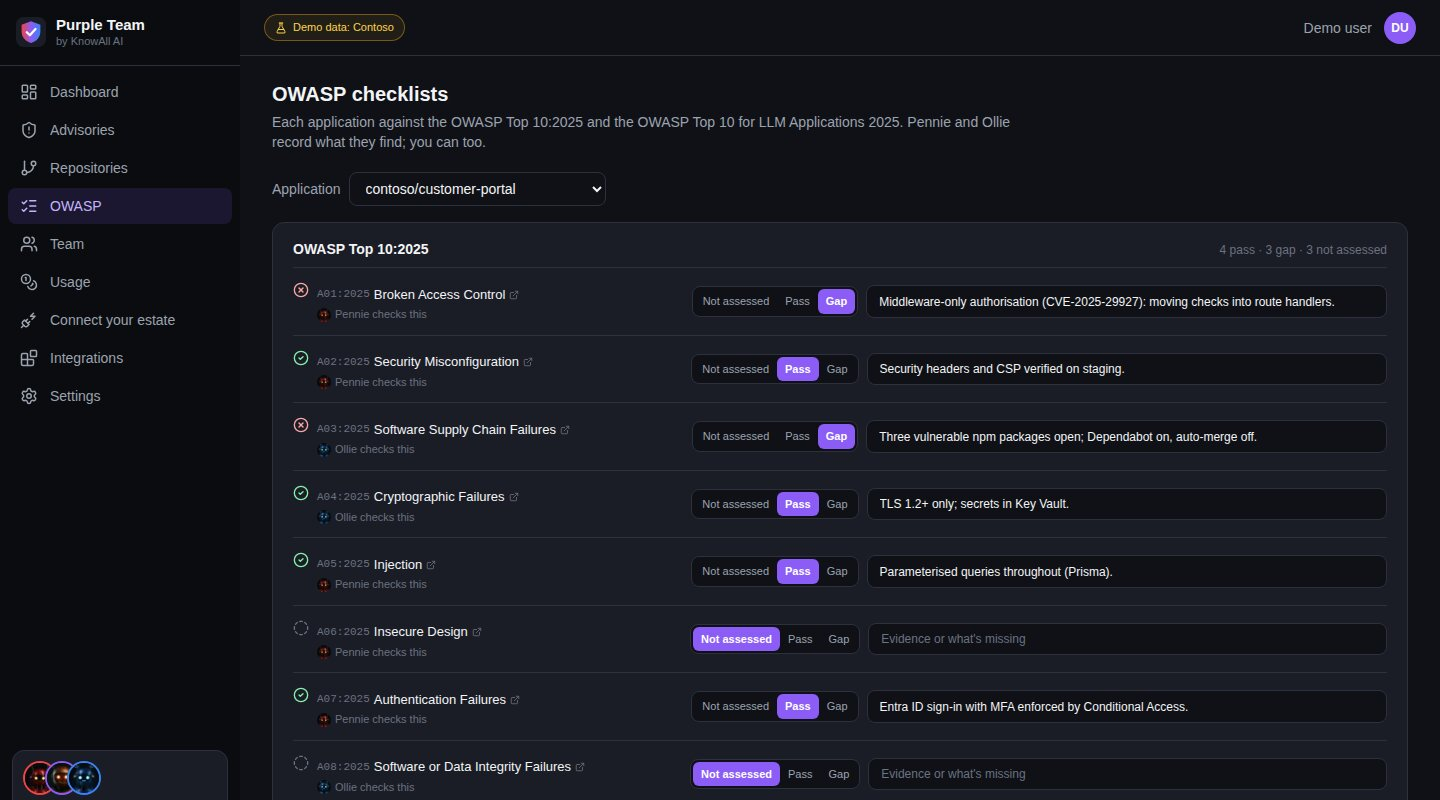
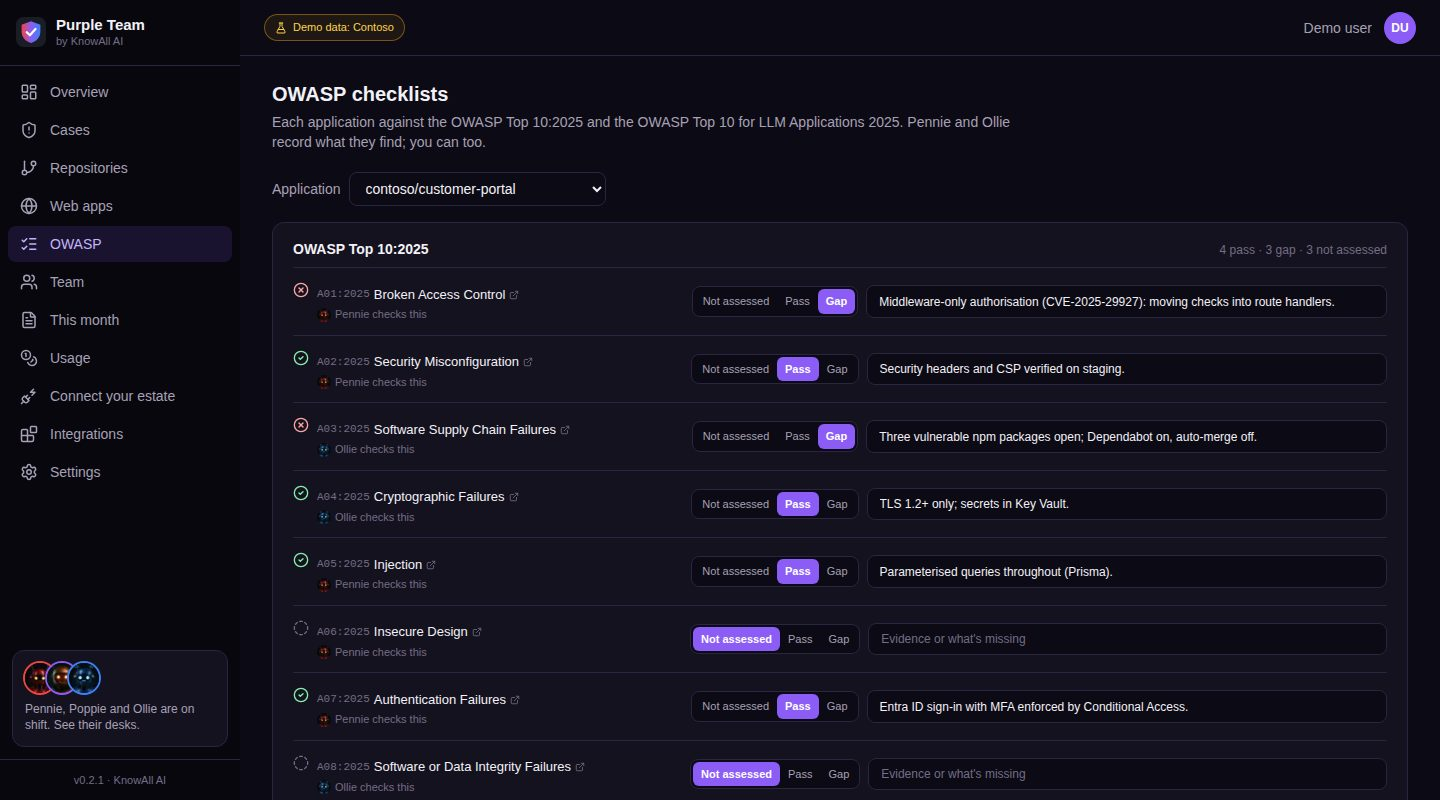
feat(presentations): current Purple Team Portal screenshots
Slide 9's carousel showed the old portal (Dashboard, Advisories). It now
shows eight current screens from DEMO_MODE (Contoso): Overview, Cases, Case
detail, Repositories, Repository, Web app, OWASP checklists and Usage and
hours, with matching captions, alt text and dots. The three retired images
are removed.

Fixes #245

diff --git a/presentations-src/purple-team.html b/presentations-src/purple-team.html
@@ -790,27 +790,35 @@
               <div class="portal-shot portal-carousel carousel" role="group" aria-roledescription="carousel" aria-label="Purple Team Portal screens">
                 <div class="carousel-track">
                   <figure class="carousel-slide is-active" aria-hidden="false">
-                    <img src="images/portal-dashboard.jpg" alt="Purple Team Portal, Dashboard page, for the fictional company Contoso: Security score, its trend and the month's key figures" />
-                    <figcaption><strong>Dashboard</strong> &middot; Security score, its trend and the month&rsquo;s key figures</figcaption>
+                    <img src="images/portal-overview.jpg" alt="Purple Team Portal, Overview, for the fictional company Contoso: The team right now, what's waiting on you, Poppie's briefing and your security score" />
+                    <figcaption><strong>Overview</strong> &middot; The team right now, what&rsquo;s waiting on you, Poppie&rsquo;s briefing and your security score</figcaption>
                   </figure>
                   <figure class="carousel-slide" aria-hidden="true">
-                    <img src="images/portal-advisories.jpg" alt="Purple Team Portal, Advisories page, for the fictional company Contoso: Every advisory that affects you, scored and matched to your repositories" />
-                    <figcaption><strong>Advisories</strong> &middot; Every advisory that affects you, scored and matched to your repositories</figcaption>
+                    <img src="images/portal-cases.jpg" alt="Purple Team Portal, Cases, for the fictional company Contoso: Every vulnerability that affects you, scored, with Poppie's recommendation" />
+                    <figcaption><strong>Cases</strong> &middot; Every vulnerability that affects you, scored, with Poppie&rsquo;s recommendation</figcaption>
                   </figure>
                   <figure class="carousel-slide" aria-hidden="true">
-                    <img src="images/portal-advisory.jpg" alt="Purple Team Portal, Advisory detail page, for the fictional company Contoso: Why it matters to you, the evidence, and what the team did about it" />
-                    <figcaption><strong>Advisory detail</strong> &middot; Why it matters to you, the evidence, and what the team did about it</figcaption>
+                    <img src="images/portal-case.jpg" alt="Purple Team Portal, Case detail, for the fictional company Contoso: Pennie's verdict and evidence, Ollie's fix, and where it stands" />
+                    <figcaption><strong>Case detail</strong> &middot; Pennie&rsquo;s verdict and evidence, Ollie&rsquo;s fix, and where it stands</figcaption>
                   </figure>
                   <figure class="carousel-slide" aria-hidden="true">
-                    <img src="images/portal-repos.jpg" alt="Purple Team Portal, Repositories page, for the fictional company Contoso: Each repository's open findings and the scanners watching it" />
-                    <figcaption><strong>Repositories</strong> &middot; Each repository&rsquo;s open findings and the scanners watching it</figcaption>
+                    <img src="images/portal-repos.jpg" alt="Purple Team Portal, Repositories, for the fictional company Contoso: Each repository by organisation and project, its open findings and its scanning" />
+                    <figcaption><strong>Repositories</strong> &middot; Each repository by organisation and project, its open findings and its scanning</figcaption>
                   </figure>
                   <figure class="carousel-slide" aria-hidden="true">
-                    <img src="images/portal-owasp.jpg" alt="Purple Team Portal, OWASP checklists page, for the fictional company Contoso: The OWASP Top 10 and LLM Top 10, item by item, with Pennie's results" />
+                    <img src="images/portal-repo.jpg" alt="Purple Team Portal, Repository page, for the fictional company Contoso: The team's recommendations for one repository, with a button to set them going" />
+                    <figcaption><strong>Repository</strong> &middot; The team&rsquo;s recommendations for one repository, with a button to set them going</figcaption>
+                  </figure>
+                  <figure class="carousel-slide" aria-hidden="true">
+                    <img src="images/portal-app.jpg" alt="Purple Team Portal, Web app page, for the fictional company Contoso: Each Azure web app: its repository, Front Door and WAF, and Defender for Cloud" />
+                    <figcaption><strong>Web app</strong> &middot; Each Azure web app: its repository, Front Door and WAF, and Defender for Cloud</figcaption>
+                  </figure>
+                  <figure class="carousel-slide" aria-hidden="true">
+                    <img src="images/portal-owasp.jpg" alt="Purple Team Portal, OWASP checklists, for the fictional company Contoso: The OWASP Top 10 and LLM Top 10, item by item, with Pennie's results" />
                     <figcaption><strong>OWASP checklists</strong> &middot; The OWASP Top 10 and LLM Top 10, item by item, with Pennie&rsquo;s results</figcaption>
                   </figure>
                   <figure class="carousel-slide" aria-hidden="true">
-                    <img src="images/portal-usage.jpg" alt="Purple Team Portal, Usage and hours page, for the fictional company Contoso: Time spent per case, by agent and by job, against your plan" />
+                    <img src="images/portal-usage.jpg" alt="Purple Team Portal, Usage and hours, for the fictional company Contoso: Time spent per case, by agent and by job, against your plan" />
                     <figcaption><strong>Usage and hours</strong> &middot; Time spent per case, by agent and by job, against your plan</figcaption>
                   </figure>
                 </div>
@@ -821,7 +829,7 @@
                   <svg class="carousel-icon-pause" viewBox="0 0 16 16" aria-hidden="true"><rect x="3" y="2" width="3.5" height="12" rx="1" /><rect x="9.5" y="2" width="3.5" height="12" rx="1" /></svg>
                   <svg class="carousel-icon-play" viewBox="0 0 16 16" aria-hidden="true"><path d="M4 2.2v11.6c0 .6.7 1 1.2.6l8.4-5.8a.75.75 0 0 0 0-1.2L5.2 1.6c-.5-.4-1.2 0-1.2.6z" /></svg>
                 </button>
-                <div class="carousel-dots"><button type="button" class="carousel-dot is-active" aria-label="Show Dashboard"></button><button type="button" class="carousel-dot" aria-label="Show Advisories"></button><button type="button" class="carousel-dot" aria-label="Show Advisory detail"></button><button type="button" class="carousel-dot" aria-label="Show Repositories"></button><button type="button" class="carousel-dot" aria-label="Show OWASP checklists"></button><button type="button" class="carousel-dot" aria-label="Show Usage and hours"></button></div>
+                <div class="carousel-dots"><button type="button" class="carousel-dot is-active" aria-label="Show Overview"></button><button type="button" class="carousel-dot" aria-label="Show Cases"></button><button type="button" class="carousel-dot" aria-label="Show Case detail"></button><button type="button" class="carousel-dot" aria-label="Show Repositories"></button><button type="button" class="carousel-dot" aria-label="Show Repository"></button><button type="button" class="carousel-dot" aria-label="Show Web app"></button><button type="button" class="carousel-dot" aria-label="Show OWASP checklists"></button><button type="button" class="carousel-dot" aria-label="Show Usage and hours"></button></div>
               </div>
             </div>
           </div>

diff --git a/public/presentations/purple-team.html b/public/presentations/purple-team.html
@@ -811,27 +811,35 @@
               <div class="portal-shot portal-carousel carousel" role="group" aria-roledescription="carousel" aria-label="Purple Team Portal screens">
                 <div class="carousel-track">
                   <figure class="carousel-slide is-active" aria-hidden="false">
-                    <img src="images/portal-dashboard.jpg" alt="Purple Team Portal, Dashboard page, for the fictional company Contoso: Security score, its trend and the month's key figures" />
-                    <figcaption><strong>Dashboard</strong> &middot; Security score, its trend and the month&rsquo;s key figures</figcaption>
+                    <img src="images/portal-overview.jpg" alt="Purple Team Portal, Overview, for the fictional company Contoso: The team right now, what's waiting on you, Poppie's briefing and your security score" />
+                    <figcaption><strong>Overview</strong> &middot; The team right now, what&rsquo;s waiting on you, Poppie&rsquo;s briefing and your security score</figcaption>
                   </figure>
                   <figure class="carousel-slide" aria-hidden="true">
-                    <img src="images/portal-advisories.jpg" alt="Purple Team Portal, Advisories page, for the fictional company Contoso: Every advisory that affects you, scored and matched to your repositories" />
-                    <figcaption><strong>Advisories</strong> &middot; Every advisory that affects you, scored and matched to your repositories</figcaption>
+                    <img src="images/portal-cases.jpg" alt="Purple Team Portal, Cases, for the fictional company Contoso: Every vulnerability that affects you, scored, with Poppie's recommendation" />
+                    <figcaption><strong>Cases</strong> &middot; Every vulnerability that affects you, scored, with Poppie&rsquo;s recommendation</figcaption>
                   </figure>
                   <figure class="carousel-slide" aria-hidden="true">
-                    <img src="images/portal-advisory.jpg" alt="Purple Team Portal, Advisory detail page, for the fictional company Contoso: Why it matters to you, the evidence, and what the team did about it" />
-                    <figcaption><strong>Advisory detail</strong> &middot; Why it matters to you, the evidence, and what the team did about it</figcaption>
+                    <img src="images/portal-case.jpg" alt="Purple Team Portal, Case detail, for the fictional company Contoso: Pennie's verdict and evidence, Ollie's fix, and where it stands" />
+                    <figcaption><strong>Case detail</strong> &middot; Pennie&rsquo;s verdict and evidence, Ollie&rsquo;s fix, and where it stands</figcaption>
                   </figure>
                   <figure class="carousel-slide" aria-hidden="true">
-                    <img src="images/portal-repos.jpg" alt="Purple Team Portal, Repositories page, for the fictional company Contoso: Each repository's open findings and the scanners watching it" />
-                    <figcaption><strong>Repositories</strong> &middot; Each repository&rsquo;s open findings and the scanners watching it</figcaption>
+                    <img src="images/portal-repos.jpg" alt="Purple Team Portal, Repositories, for the fictional company Contoso: Each repository by organisation and project, its open findings and its scanning" />
+                    <figcaption><strong>Repositories</strong> &middot; Each repository by organisation and project, its open findings and its scanning</figcaption>
                   </figure>
                   <figure class="carousel-slide" aria-hidden="true">
-                    <img src="images/portal-owasp.jpg" alt="Purple Team Portal, OWASP checklists page, for the fictional company Contoso: The OWASP Top 10 and LLM Top 10, item by item, with Pennie's results" />
+                    <img src="images/portal-repo.jpg" alt="Purple Team Portal, Repository page, for the fictional company Contoso: The team's recommendations for one repository, with a button to set them going" />
+                    <figcaption><strong>Repository</strong> &middot; The team&rsquo;s recommendations for one repository, with a button to set them going</figcaption>
+                  </figure>
+                  <figure class="carousel-slide" aria-hidden="true">
+                    <img src="images/portal-app.jpg" alt="Purple Team Portal, Web app page, for the fictional company Contoso: Each Azure web app: its repository, Front Door and WAF, and Defender for Cloud" />
+                    <figcaption><strong>Web app</strong> &middot; Each Azure web app: its repository, Front Door and WAF, and Defender for Cloud</figcaption>
+                  </figure>
+                  <figure class="carousel-slide" aria-hidden="true">
+                    <img src="images/portal-owasp.jpg" alt="Purple Team Portal, OWASP checklists, for the fictional company Contoso: The OWASP Top 10 and LLM Top 10, item by item, with Pennie's results" />
                     <figcaption><strong>OWASP checklists</strong> &middot; The OWASP Top 10 and LLM Top 10, item by item, with Pennie&rsquo;s results</figcaption>
                   </figure>
                   <figure class="carousel-slide" aria-hidden="true">
-                    <img src="images/portal-usage.jpg" alt="Purple Team Portal, Usage and hours page, for the fictional company Contoso: Time spent per case, by agent and by job, against your plan" />
+                    <img src="images/portal-usage.jpg" alt="Purple Team Portal, Usage and hours, for the fictional company Contoso: Time spent per case, by agent and by job, against your plan" />
                     <figcaption><strong>Usage and hours</strong> &middot; Time spent per case, by agent and by job, against your plan</figcaption>
                   </figure>
                 </div>
@@ -842,7 +850,7 @@
                   <svg class="carousel-icon-pause" viewBox="0 0 16 16" aria-hidden="true"><rect x="3" y="2" width="3.5" height="12" rx="1" /><rect x="9.5" y="2" width="3.5" height="12" rx="1" /></svg>
                   <svg class="carousel-icon-play" viewBox="0 0 16 16" aria-hidden="true"><path d="M4 2.2v11.6c0 .6.7 1 1.2.6l8.4-5.8a.75.75 0 0 0 0-1.2L5.2 1.6c-.5-.4-1.2 0-1.2.6z" /></svg>
                 </button>
-                <div class="carousel-dots"><button type="button" class="carousel-dot is-active" aria-label="Show Dashboard"></button><button type="button" class="carousel-dot" aria-label="Show Advisories"></button><button type="button" class="carousel-dot" aria-label="Show Advisory detail"></button><button type="button" class="carousel-dot" aria-label="Show Repositories"></button><button type="button" class="carousel-dot" aria-label="Show OWASP checklists"></button><button type="button" class="carousel-dot" aria-label="Show Usage and hours"></button></div>
+                <div class="carousel-dots"><button type="button" class="carousel-dot is-active" aria-label="Show Overview"></button><button type="button" class="carousel-dot" aria-label="Show Cases"></button><button type="button" class="carousel-dot" aria-label="Show Case detail"></button><button type="button" class="carousel-dot" aria-label="Show Repositories"></button><button type="button" class="carousel-dot" aria-label="Show Repository"></button><button type="button" class="carousel-dot" aria-label="Show Web app"></button><button type="button" class="carousel-dot" aria-label="Show OWASP checklists"></button><button type="button" class="carousel-dot" aria-label="Show Usage and hours"></button></div>
               </div>
             </div>
           </div>
